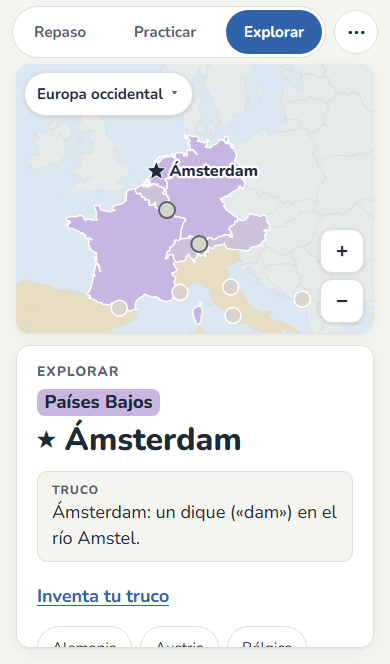
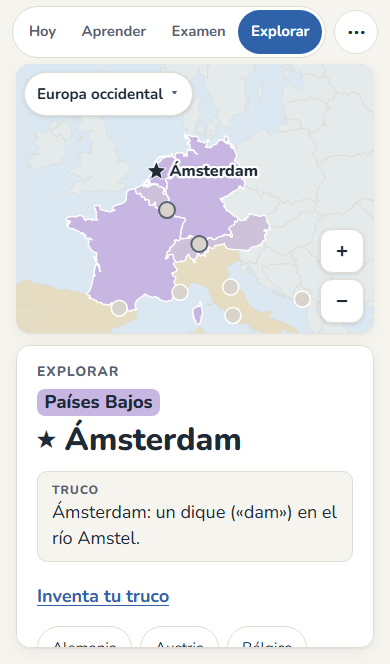
F5: documentación v2, versión 2.0.0 y plan cerrado
- README: Hoy, Aprender, Examen y tema; capturas nuevas (Hoy y examen
  en escritorio) con scripts/capturas-readme.cjs.
- SPEC: detalles decididos al implementar (tandas de Aprender, medio
  punto en el escalón, examen por continentes y sin corrección en el
  momento, Hoy por bloques de región, tema, panel).
- Notas técnicas: arquitectura v2 y scripts de prueba.
- prueba-hoy: cuenta los rótulos con un observador (era intermitente).
- Versión 2.0.0. Plan v2 cerrado (F1 a F5); sin fusionar con la rama
  publicada hasta que el responsable lo apruebe.

Claude-Session: https://claude.ai/code/session_01Tc2JMAWdw2J7R19oc17MAx

Changed region(s): [[0.0615, 0.0, 0.8, 0.0904]]

diff --git a/SPEC.md b/SPEC.md
@@ -56,16 +56,17 @@ El examen real de clase es un **mapa mudo con puntos en las capitales**: hay que
 5. **Al revés:** se muestra una capital y hay que tocar su país. Solo en Hoy, para dar variedad.
 
 ### 4.3 Escalones de aprendizaje
-Cada país pasa por: **Elegir → Colocar → Escribir → Mapa mudo**. Sube de escalón al **acertar dos veces con otras preguntas por medio** (evita el espejismo de dominio de acertar seguido en una tarde). Un fallo reinicia el contador del escalón, sin bajar de escalón. Al superar el Mapa mudo, el país queda **aprendido** y pasa al repaso espaciado de Hoy. El "dominado" a largo plazo lo decide FSRS (sección 6).
+Cada país pasa por: **Elegir → Colocar → Escribir → Mapa mudo**. Sube de escalón al **acertar dos veces con otras preguntas por medio** (evita el espejismo de dominio de acertar seguido en una tarde). Un fallo reinicia el contador del escalón, sin bajar de escalón; en Mapa mudo, el medio punto cuenta como fallo para el escalón, y una errata ni suma ni resta. En Aprender, cada tanda pregunta una vez por cada país pendiente de la región (los de Colocar, juntos en el pool), así que los dos aciertos llegan en tandas distintas. Al superar el Mapa mudo, el país queda **aprendido** y pasa al repaso espaciado de Hoy. El "dominado" a largo plazo lo decide FSRS (sección 6).
 
 ### 4.4 Examen
 - Mapa mudo del **continente entero** (como el examen real), sin colores de progreso, con las estrellas de las capitales; se resalta una y se escriben país y capital.
-- Se elige qué entra (Europa, Asia, todo o la lista del examen del panel) y cuántas preguntas (10, 20 o todas).
+- Se elige qué entra (Europa, Asia, todo o la lista del examen del panel) y cuántas preguntas (10, 20 o todas). "Todo" va por continentes: primero el mapa de Europa y luego el de Asia (uno solo de los dos continentes no cabe bien en pantalla).
+- Sin corrección en el momento, como en clase: se responde todo y al final se ve la nota. Sin colores de progreso en el mapa mientras dura.
 - Sin trucos ni repeticiones. **Nota sobre 10**: 1 punto si país y capital son correctos, **medio punto** si solo uno de los dos. Al final, lista de fallos y opción de priorizarlos en Hoy.
 - **Los resultados cuentan para la planificación**: acierto completo como acierto, medio acierto como "repasar" (Hard), fallo como fallo (Again).
 
 ### 4.5 Mapa con varias regiones
-En Hoy las preguntas pueden saltar de región (dificultad deseable que demuestra dominio real). Al cambiar, transición breve con el nombre de la región; el tiempo de respuesta cuenta desde que el mapa está quieto.
+En Hoy las preguntas pueden saltar de región (dificultad deseable que demuestra dominio real). Al cambiar, transición breve con el nombre de la región; el tiempo de respuesta cuenta desde que el mapa está quieto. Para no marear, la sesión va por bloques de región (primero las regiones con repasos, al final la de los nuevos) y un fallo se repite dentro del bloque de su región.
 
 ## 5. Pedagogía y feedback
 
@@ -112,6 +113,7 @@ En Hoy las preguntas pueden saltar de región (dificultad deseable que demuestra
 ## 7. Sesiones
 
 - **Hoy:** corta (orientativo: unos 10 minutos o unas 20 preguntas), con opción de seguir al terminar. Empieza con unos repasos y reparte los países nuevos entre ellos, separados para que cada uno salga varias veces.
+- Los países que están en aprendizaje salen en Hoy una vez al día (si ya se han respondido hoy, esperan a mañana).
 - **Nuevos por día, autorregulados entre 5 y 10** según el porcentaje de aciertos recientes; si hay muchos repasos pendientes (por ejemplo, tras días sin entrar), 5. El adulto puede ajustar el máximo.
 - **Examen configurado por el adulto** (fecha y países): Hoy da prioridad a esos países a medida que se acerca la fecha. El antiguo "Preparar examen" desaparece (lo absorben Hoy y Examen).
 
@@ -119,7 +121,7 @@ En Hoy las preguntas pueden saltar de región (dificultad deseable que demuestra
 
 - Protegido con **PIN** (guardado como hash). Es una cerradura de niños, no seguridad real: todo es local.
 - Muestra: dominio por región, países que más se atascan, actividad reciente.
-- Configura: lista de examen (con casillas para marcar Europa o Asia enteras, o una región entera), países opcionales (Kosovo; Taiwán está en el listado y siempre activo), desbloqueo de todas las regiones, edición de trucos, reinicio de progreso.
+- Configura: lista de examen (con casillas para marcar Europa o Asia enteras, o una región entera), máximo de países nuevos al día (5 a 10), países opcionales (Kosovo; Taiwán está en el listado y siempre activo), desbloqueo de todas las regiones, edición de trucos, reinicio de progreso.
 
 ## 9. Persistencia y dispositivos
 
@@ -137,7 +139,7 @@ En Hoy las preguntas pueden saltar de región (dificultad deseable que demuestra
 - Tipografía redondeada y legible (p. ej. Nunito), tamaños generosos.
 - Capital marcada con estrella pequeña. Microestados (Vaticano, Mónaco, San Marino, Liechtenstein, Andorra, Malta, Singapur, Baréin, Maldivas...) con círculo ampliado y tocable; zoom/pan en el mapa.
 - Distribución: en móvil, mapa arriba y tarjeta de pregunta abajo; en iPad y PC, mapa a la izquierda y panel a la derecha.
-- Modo oscuro automático.
+- Modo oscuro automático, con opción de fijar Claro u Oscuro en ⋯ (preferencia del dispositivo, no viaja con la copia).
 - Objetivos táctiles amplios (mínimo 44 px).
 
 ## 11. Técnica (propuesta, revisable)
@@ -163,11 +165,11 @@ En Hoy las preguntas pueden saltar de región (dificultad deseable que demuestra
 - `nota`: texto neutro opcional.
 - `trucos`: lista de { tipo, texto }.
 
-Progreso (local): estado FSRS por tarjeta, nivel/modo por país, historial de respuestas (fecha, modo, acierto, tiempo, pista), trucos propios, configuración y hash del PIN.
+Progreso (local): estado FSRS por tarjeta, escalón de aprendizaje por país (y si está aprendido), países priorizados en Hoy, historial de respuestas (fecha, modo, acierto, tiempo, pista), trucos propios, configuración y hash del PIN.
 
 ## 13. Hitos
 
-**Estado:** los siete hitos están cubiertos en la v1.0 (ver `docs/informe-noche.md`). Pendiente: pruebas con el usuario real en iPad y iPhone, y revisión de trucos y regiones.
+**Estado:** los siete hitos están cubiertos en la v1.0 (ver `docs/informe-noche.md`). La v2 (Hoy, Aprender y Examen, sección 4) está en `docs/plan-v2.md`. Pendiente: pruebas con el usuario real en iPad y iPhone, y revisión de trucos y regiones.
 
 1. **Prototipo de una región** (p. ej. Europa nórdica o Balcanes): mapa, modos 1 y 2, feedback. Probar en iPad.
 2. Resto de modos (3, 4, 5) y validación tolerante de texto.

diff --git a/docs/notas-tecnicas.md b/docs/notas-tecnicas.md
@@ -8,7 +8,7 @@
 
 ## Comandos
 - `npm test`, `npm run build`, `npx vite preview --port 4173 --strictPort` (en segundo plano).
-- Pruebas en navegador: `node scripts/prueba-modos.cjs <carpeta-capturas>` con el preview levantado.
+- Pruebas en navegador: `node scripts/prueba-hoy.cjs <carpeta-capturas>` (y las demás de la lista de abajo) con el preview levantado.
   Ojo: para tocar países usar `locator.dispatchEvent('click')`, no `tap()`: el centro del
   rectángulo de Croacia cae en Bosnia.
 - No usar `pkill -f "vite preview"` en la misma orden que otras cosas: mata la propia shell (código 144).
@@ -28,12 +28,15 @@
   Con pasos de aprendizaje cortos: un Good nuevo -> Learning con due a 10 min; otro Good -> Review a 2 días.
 
 ## Scripts de prueba en navegador (todos con el preview en el puerto 4173)
-- `scripts/prueba-modos.cjs <carpeta>`: los cuatro modos de Practicar en móvil, iPad y PC.
-- `scripts/prueba-progreso.cjs <carpeta>`: repaso, guardado y truco propio.
-- `scripts/prueba-regiones.cjs <carpeta> [movil]`: las 13 regiones con progreso simulado.
+Las de la v2 (`prueba-aprender`, `prueba-hoy`, `prueba-examen`, `prueba-tema`) comprueban y dicen OK o FALLO en cada punto, y salen con código 1 si algo falla.
+- `scripts/prueba-aprender.cjs <carpeta>`: escalones, Colocar por tandas, mapa mudo (medio punto, Holanda) en móvil y PC.
+- `scripts/prueba-hoy.cjs <carpeta>`: primer día (nuevos dos veces, nunca seguidos) y sesión de tres regiones con rótulo.
+- `scripts/prueba-examen.cjs <carpeta>`: examen de Europa (nota con medio punto, sin colores, priorizar en Hoy), "Las dos" por continentes y pestañas a 360 px.
+- `scripts/prueba-tema.cjs <carpeta>`: tema Automático/Claro/Oscuro y capturas en oscuro.
+- `scripts/prueba-progreso.cjs <carpeta>`: Hoy, guardado y truco propio.
+- `scripts/prueba-regiones.cjs <carpeta> [movil]`: las 13 regiones con progreso simulado y una tanda de Colocar en cada una.
 - `scripts/prueba-pwa.cjs <carpeta>`: sin conexión y copia por código.
-- `scripts/prueba-panel.cjs <carpeta> [movil]`: panel de adultos y modo examen.
-- `scripts/capturas-oscuro.cjs <carpeta>`: capturas en modo oscuro.
+- `scripts/prueba-panel.cjs <carpeta> [movil]`: panel de adultos y lista de examen.
 - `scripts/prueba-zoom.cjs <carpeta>`: zoom, arrastre, rueda y pellizco simulado.
 - `scripts/prueba-accesibilidad.cjs`: objetivos táctiles de 44 px en todas las pantallas y recorrido con teclado.
 - `scripts/prueba-guia.cjs <carpeta> [movil]`: bienvenida, guía del alumno (pregunta y taller), guía de adultos, casillas de continente del examen y Acerca de.
@@ -50,11 +53,14 @@
 - Zoom: `src/logic/vista.ts` (0,6x a 8x, holgura del 35 % para desplazarse).
 - La app usa `src/data/mapa-50m.json`, generado con `node scripts/recortar-mapa.cjs` a partir de world-atlas (dependencia de desarrollo). Si se añaden países fuera del recuadro, ampliar el recuadro del script y regenerar.
 
-## Arquitectura de la interfaz (O1-O4)
-- `src/ui/app.ts`: estado (progreso), región actual, mapa, pestañas, `Motor` (registrar respuestas, modo por dominio, trucos), avisos.
-- `src/ui/ronda.ts`: controlador común de rondas de preguntas sueltas; `src/ui/preguntas.ts`: una función por modo (elegir, escribir, al revés).
-- `src/ui/colocar.ts`: modo 3, aparte (va por tandas).
-- `src/ui/repaso.ts` (sesión y examen), `practicar.ts`, `explorar.ts`, `regiones.ts` (selector), `mas.ts` (copia), `panel.ts` (adultos).
+## Arquitectura de la interfaz (v2)
+- `src/ui/app.ts`: estado (progreso), región actual, mapa, pestañas (Hoy, Aprender, Examen, Explorar), `Motor` (registrar respuesta en FSRS y en el escalón, trucos), avisos. Monta el mapa de la región, el de otra región cuando Hoy salta (con rótulo) y el mapa mudo del examen (sin colores ni selector de región).
+- Lógica v2: `src/logic/hoy.ts` (sesión de Hoy agrupada por regiones, nuevos autorregulados, `ColaHoy`), `progreso.ts` (escalones y migración desde la v1), `examen.ts` (ámbitos, corrección de mapa mudo con medio punto, nota), `texto.ts` (validación de capital y de país).
+- `src/ui/hoy.ts`: bucle propio de preguntas (el mapa puede cambiar de región entre preguntas). `src/ui/aprender.ts`: escalera y tandas. `src/ui/examen.ts`: configuración, preguntas y nota.
+- `src/ui/ronda.ts`: rondas de preguntas sueltas con mapa fijo (Aprender); `src/ui/preguntas.ts`: una función por tipo (elegir, escribir, al revés, mapa mudo).
+- `src/ui/colocar.ts`: Colocar, aparte (va por tandas).
+- `src/ui/explorar.ts`, `regiones.ts` (selector), `mas.ts` (copia y tema), `tema.ts` (Automático/Claro/Oscuro, guardado aparte del progreso), `panel.ts` (adultos).
+- Medio punto en mapa mudo: "repasar" para FSRS y fallo para el escalón y la cola (`OpcionesRespuesta.escalon`).
 - `src/ui/bienvenida.ts` (primer arranque y guía de adultos), `guia.ts` (guía del alumno), `acerca.ts` (versión y créditos; la autoría está en `AUTORIA`).
 - Los atajos de teclado de las preguntas (`Teclado` en `comun.ts`) se ignoran mientras haya un `<dialog>` abierto.
 - Cambios de ajustes que afectan a los datos (Kosovo, examen, importar) recargan la página.

diff --git a/README.md b/README.md
@@ -6,7 +6,7 @@
 
 Funciona en el navegador del móvil, la tableta o el ordenador. Gratis, sin cuentas y sin anuncios.
 
-![Capitalia en el ordenador: el mapa de Europa occidental coloreado según lo aprendido y una pregunta de repaso](docs/capturas/repaso-escritorio.png)
+![Capitalia en el ordenador: el mapa de Europa occidental coloreado según lo aprendido y una pregunta de Hoy](docs/capturas/hoy-escritorio.png)
 
 ## Qué es
 
@@ -16,10 +16,12 @@ En lugar de leer una lista una y otra vez, la app te hace **recordar** las capit
 
 ## Cómo te ayuda a aprender
 
-- **Repaso diario automático.** La app calcula cuándo estás a punto de olvidar cada capital y te la pregunta justo entonces (repetición espaciada). Lo que te sabes sale cada vez menos; lo que te cuesta, más a menudo. Unos diez minutos al día bastan.
-- **Cuatro tipos de pregunta, de más fácil a más difícil:** elegir la capital entre cuatro, colocar capitales en su país, encontrar el país de una capital y escribirla sin ayuda. Cada país sube de nivel cuando ya te lo sabes.
+- **Hoy: diez minutos al día.** La app calcula cuándo estás a punto de olvidar cada capital y te la pregunta justo entonces (repetición espaciada), y cada día mete unos pocos países nuevos entre los repasos. Lo que te sabes sale cada vez menos; lo que te cuesta, más a menudo.
+- **Aprender, a tu ritmo.** Cada país sube cuatro escalones, de más fácil a más difícil: elegir la capital entre cuatro, colocar capitales en su país, escribirla sin ayuda y, por último, el mapa mudo: ver solo la estrella y escribir país y capital. Sube de escalón al acertarlo dos veces con otras preguntas por medio.
+- **Examen de prueba.** Un mapa mudo del continente entero con las estrellas de las capitales, como el examen de clase, con nota sobre 10 (medio punto si aciertas solo el país o solo la capital). Lo que falles puedes mandarlo a Hoy para repasarlo antes.
 - **El mapa es tu marcador.** Cada país se colorea a medida que lo dominas, y las regiones se van abriendo de una en una.
 - **Trucos de memoria.** Algunos países traen uno, y puedes inventar los tuyos (la app incluye una guía para fabricarlos).
+- **Modo claro y oscuro**, automático o a elegir.
 - **Fallar no castiga.** Cuando fallas, ves la respuesta y el truco, y ese país vuelve a salir en unos minutos. No hay rachas ni puntos que perder.
 - **Escribir sin agobios.** No hace falta poner tildes ni mayúsculas, y si se te escapa una letra te lo damos por bueno (pero vuelve a salir para afianzarlo).
 
@@ -27,14 +29,16 @@ En lugar de leer una lista una y otra vez, la app te hace **recordar** las capit
   <img src="docs/capturas/explorar-movil.png" alt="Capitalia en el móvil: modo Explorar con la capital de los Países Bajos y su truco" width="300">
 </p>
 
+![Examen de prueba: mapa mudo de Europa con las estrellas de las capitales y una resaltada](docs/capturas/examen-escritorio.png)
+
 ## Para familias y docentes
 
 La app tiene un **panel para adultos** protegido con un PIN (botón ⋯, arriba a la derecha):
 
 - **Resumen:** cómo va cada región, qué países se le atascan al alumno y cuántos días ha practicado.
-- **Examen:** marca los países que entran (puedes marcar Europa o Asia enteras, o una región) y la fecha. El alumno verá "Preparar examen", que pregunta primero lo más flojo sin alterar su repaso normal.
+- **Examen:** marca los países que entran (puedes marcar Europa o Asia enteras, o una región) y la fecha. Hoy les dará prioridad, y el alumno podrá hacer un examen de prueba solo con ellos.
 - **Trucos:** revisa, cambia o desactiva los trucos de memoria que trae la app.
-- **Ajustes:** desbloquear todas las regiones (si el curso va en otro orden), cambiar el PIN o reiniciar el progreso.
+- **Ajustes:** cuántos países nuevos al día como mucho, desbloquear todas las regiones (si el curso va en otro orden), cambiar el PIN o reiniciar el progreso.
 
 La primera vez que se abre, la app pregunta quién la está usando y ofrece una guía breve tanto al alumno como a los adultos.
 
@@ -98,4 +102,5 @@ Documentación del proyecto:
 - [`CLAUDE.md`](CLAUDE.md): normas de trabajo.
 - [`docs/notas-tecnicas.md`](docs/notas-tecnicas.md): estructura del código, scripts y cómo probar.
 - [`docs/informe-noche.md`](docs/informe-noche.md): historial de la v1.0, decisiones tomadas y pruebas manuales pendientes.
+- [`docs/plan-v2.md`](docs/plan-v2.md): rediseño v2 (Hoy, Aprender y Examen) y sus decisiones.
 - [`docs/listas/`](docs/listas/): listados de clase con los países y capitales.

diff --git a/docs/plan-v2.md b/docs/plan-v2.md
@@ -3,9 +3,9 @@
 Rediseño acordado con el responsable (SPEC 4, 6 y 7). Rama de trabajo: `rediseno-hoy-aprender-examen` (no publica en Pages; se fusiona con la rama publicada al terminar y probar).
 
 ## Ahora mismo
-- **Fase en curso:** F5 (navegación, tema y documentación).
-- **Hecho:** F1 (lógica), F2 (Aprender, `scripts/prueba-aprender.cjs`), F3 (Hoy, `scripts/prueba-hoy.cjs`) y F4 (Examen, `src/ui/examen.ts`, `scripts/prueba-examen.cjs`). Las cuatro pestañas ya están y caben a 360 px.
-- **Siguiente paso concreto:** tema Automático/Claro/Oscuro en ⋯; luego guías, README, SPEC, notas técnicas, panel (máximo de nuevos) y adaptar los scripts de prueba antiguos.
+- **Estado:** F1 a F5 terminadas en la rama `rediseno-hoy-aprender-examen`. **Sin fusionar** con la rama publicada: espera la aprobación del responsable.
+- **Siguiente paso:** que el responsable la pruebe (en local con `npm run build` y `npx vite preview`) y, si le parece bien, fusionar con `claude/hito-1-plan-7opthj` para publicarla.
+- **Pendientes que no bloquean:** el color del mapa sigue el dominio FSRS (no los escalones); el resumen del panel tampoco muestra escalones. Pruebas con el alumno en iPad y iPhone reales.
 
 ## Cómo retomar (tras una compactación o en otra sesión)
 1. Leer `CLAUDE.md`, `SPEC.md` (secciones 3.3, 4, 6, 7), este plan y `docs/notas-tecnicas.md`.
@@ -57,11 +57,11 @@ Rediseño acordado con el responsable (SPEC 4, 6 y 7). Rama de trabajo: `redisen
 ### [x] F4. Examen
 - Mapa del continente sin colores de progreso, con todas las estrellas; ámbito y número de preguntas; nota y lista de fallos.
 
-### [ ] F5. Navegación, tema y documentación
+### [x] F5. Navegación, tema y documentación
 - Pestañas Hoy / Aprender / Examen / Explorar (comprobar que caben en móvil).
 - Ajuste de tema en ⋯.
 - Guías, README, SPEC, notas técnicas; panel de adultos (máximo de nuevos por día).
-- Pruebas en navegador completas y fusión con la rama publicada.
+- Pruebas en navegador completas. La fusión con la rama publicada queda para cuando el responsable la apruebe.
 
 ## Decisiones de implementación
 - **E1. Subida de escalón:** dos aciertos en el modo del escalón (Colocar admite Al revés, que es su versión suelta). Un fallo reinicia el contador sin bajar; una errata ni suma ni resta (`progreso.ts`, `registrarEscalon`).
@@ -83,4 +83,7 @@ Rediseño acordado con el responsable (SPEC 4, 6 y 7). Rama de trabajo: `redisen
 - **E17. Examen sin corrección en el momento:** como en clase, se responde todo y al final se ve la nota y la lista de fallos (con lo que se escribió). En blanco vale como "no lo sé". El mapa mudo no lleva colores de región ni de progreso, tampoco mientras se responde; el selector de región se oculta durante el examen.
 - **E18. Priorizar en Hoy es un botón** al final del examen ("Repasarlos antes en Hoy"), como pide la SPEC 4.4 ("opción de priorizarlos"). El examen cuenta para FSRS pero no mueve escalones.
 - **E19. Pestañas en móvil:** Hoy, Aprender, Examen y Explorar más ⋯ caben en una fila desde 360 px (texto algo más pequeño por debajo de 380 px), con objetivos de 44 px.
+- **E20. Versión 2.0.0** (se ve en Acerca de): cambia la estructura de la app. Se puede dejar en 1.x si se prefiere.
+- **E21. Tema guardado aparte del progreso** (`localStorage`, clave `capitalia-tema`): es una preferencia del dispositivo, no del alumno; no viaja con la copia de seguridad.
+- **E22. Se retiran `prueba-modos.cjs` y `capturas-oscuro.cjs`** (probaban Practicar); los sustituyen `prueba-aprender`, `prueba-hoy` y `prueba-tema`.
 
